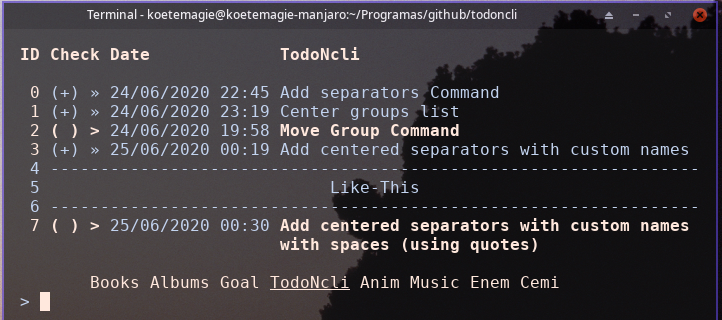
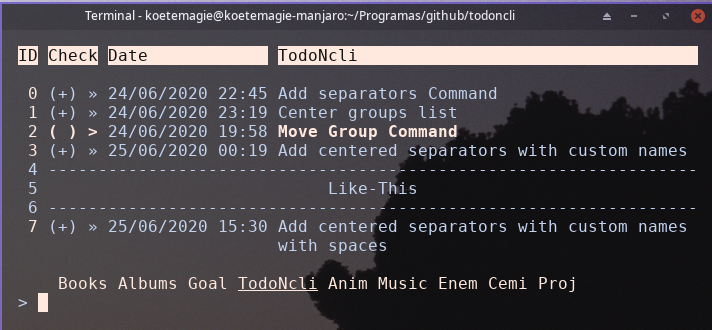
Fixed separators changing space to commas

Changed region(s): [[0.0, 0.0, 1.0, 1.0]]

diff --git a/todoncli.js b/todoncli.js
@@ -499,26 +499,18 @@ function addSeparator(text) {
     // all just reload
     if (text[0].length === 0) return;
     // ...
-    testSeparator(text[0]);
+    return testSeparator(text[0]);
 
-  } else if (text.length > 2) {
+  } else if (text.length >= 2) {
     const validate = getIndex(text);
 
-    if (typeof validate.index === 'number') {
-      // Quotes TEXT
-      const quoteStartPatt = /^['"]/;
-      const quoteEndPatt = /['"]$/;
+    if (typeof validate.index === 'number')
+      return testSeparator(validate.text, validate.index);
 
-      console.log(validate);
-      console.log(kek);
-
-
-      // if the separator contains quotes then removes them
-      testSeparator(separator, validate.index);
-    }
+    else return testSeparator(text.join(' '));
   }
   else {  
-    actualGroup.push({
+    return actualGroup.push({
       separator: true,
       text: '-'
     });
